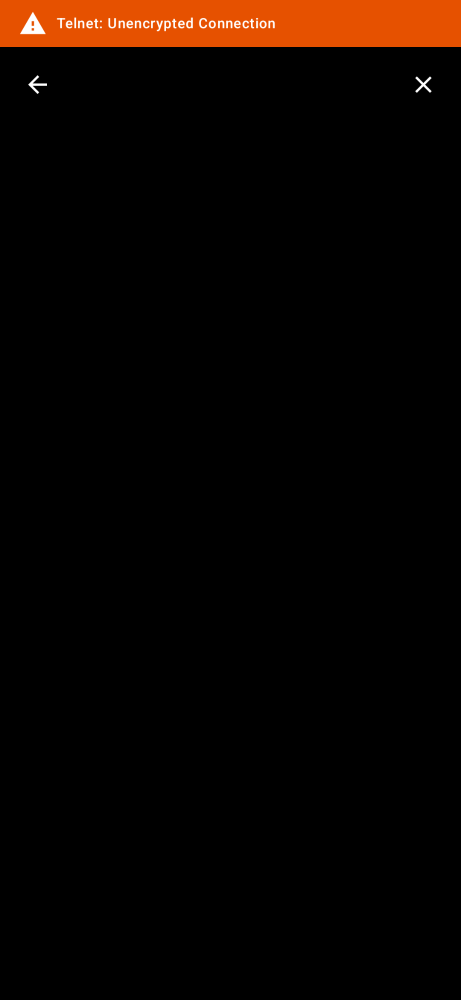
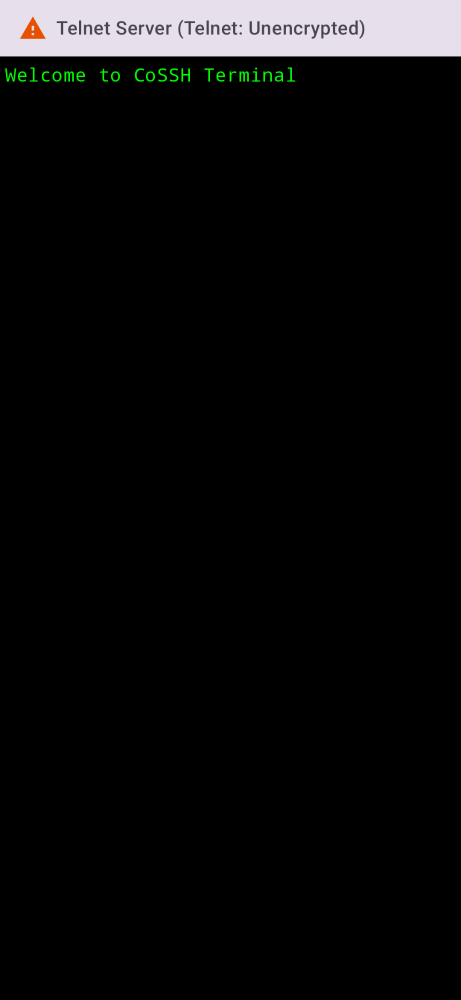
fix(ui,data): implement persistent Telnet header and test legacy payload (SSH-122)
- Add TopAppBar equivalent warning header for Telnet active sessions in TerminalScreen
- Remove transient warning from TerminalOverlayButtons
- Add Paparazzi snapshot test for the new Telnet header warning
- Update ConnectionProfileTest to verify legacy JSON deserialization defaults to SSH

Changed region(s): [[0.0, 0.0, 1.0, 0.093]]

diff --git a/app/src/test/kotlin/com/adamoutler/ssh/ui/components/TerminalScreenResumeScreenshotTest.kt b/app/src/test/kotlin/com/adamoutler/ssh/ui/components/TerminalScreenResumeScreenshotTest.kt
@@ -77,4 +77,49 @@ class TerminalScreenResumeScreenshotTest {
             }
         }
     }
+
+    @Test
+    fun terminalShowsTelnetHeaderWarning() {
+        paparazzi.snapshot {
+            CoSSHTheme {
+                Surface(
+                    modifier = Modifier.fillMaxSize(),
+                    color = MaterialTheme.colorScheme.background
+                ) {
+                    TerminalScreenContent(
+                        profileId = "test",
+                        session = com.termux.terminal.TerminalSession(
+                            "/system/bin/sh", "/", arrayOf(), arrayOf(), 0, object : com.termux.terminal.TerminalSessionClient {
+                                override fun onTextChanged(session: com.termux.terminal.TerminalSession) {}
+                                override fun onTitleChanged(session: com.termux.terminal.TerminalSession) {}
+                                override fun onSessionFinished(session: com.termux.terminal.TerminalSession) {}
+                                override fun onCopyTextToClipboard(session: com.termux.terminal.TerminalSession, text: String) {}
+                                override fun onPasteTextFromClipboard(session: com.termux.terminal.TerminalSession) {}
+                                override fun onBell(session: com.termux.terminal.TerminalSession) {}
+                                override fun onColorsChanged(session: com.termux.terminal.TerminalSession) {}
+                                override fun onTerminalCursorStateChange(state: Boolean) {}
+                                override fun getTerminalCursorStyle(): Int = 0
+                                override fun logError(tag: String?, msg: String?) {}
+                                override fun logWarn(tag: String?, msg: String?) {}
+                                override fun logInfo(tag: String?, msg: String?) {}
+                                override fun logDebug(tag: String?, msg: String?) {}
+                                override fun logVerbose(tag: String?, msg: String?) {}
+                                override fun logStackTraceWithMessage(tag: String?, msg: String?, e: java.lang.Exception?) {}
+                                override fun logStackTrace(tag: String?, e: java.lang.Exception?) {}
+                            }
+                        ),
+                        activeSession = com.adamoutler.ssh.network.ActiveSessionState(profileId = "test"),
+                        currentFontSize = 14,
+                        sessionId = "123",
+                        isConnectionActive = true,
+                        errorMessage = null,
+                        onUpdateFontSize = {},
+                        onNavigateBack = {},
+                        onClearError = {},
+                        profile = com.adamoutler.ssh.data.ConnectionProfile("test", "Telnet Server", "host", 23, com.adamoutler.ssh.data.Protocol.TELNET, "user", com.adamoutler.ssh.data.AuthType.PASSWORD, 0)
+                    )
+                }
+            }
+        }
+    }
 }

diff --git a/app/src/main/kotlin/com/adamoutler/ssh/ui/components/TerminalScreen.kt b/app/src/main/kotlin/com/adamoutler/ssh/ui/components/TerminalScreen.kt
@@ -325,6 +325,30 @@ fun TerminalScreenContent(
         val currentFontSizeState = androidx.compose.runtime.rememberUpdatedState(currentFontSize)
         val onUpdateFontSizeState = androidx.compose.runtime.rememberUpdatedState(onUpdateFontSize)
 
+        if (profile?.protocol == com.adamoutler.ssh.data.Protocol.TELNET) {
+            androidx.compose.material3.Surface(
+                color = androidx.compose.material3.MaterialTheme.colorScheme.surfaceVariant,
+                modifier = Modifier.fillMaxWidth()
+            ) {
+                androidx.compose.foundation.layout.Row(
+                    modifier = Modifier.padding(horizontal = 16.dp, vertical = 12.dp),
+                    verticalAlignment = androidx.compose.ui.Alignment.CenterVertically
+                ) {
+                    androidx.compose.material3.Icon(
+                        imageVector = Icons.Default.Warning,
+                        contentDescription = "Insecure Protocol Warning",
+                        tint = Color(0xFFE65100)
+                    )
+                    Spacer(modifier = Modifier.width(8.dp))
+                    androidx.compose.material3.Text(
+                        text = "${profile.nickname} (Telnet: Unencrypted)",
+                        color = androidx.compose.material3.MaterialTheme.colorScheme.onSurfaceVariant,
+                        style = androidx.compose.material3.MaterialTheme.typography.titleMedium
+                    )
+                }
+            }
+        }
+
         Box(modifier = Modifier.weight(1f).fillMaxWidth()) {
             val isHeadlessTest = ConnectionStateRepository.isHeadlessTest
             if (isHeadlessTest) {

diff --git a/app/src/test/kotlin/com/adamoutler/ssh/data/ConnectionProfileTest.kt b/app/src/test/kotlin/com/adamoutler/ssh/data/ConnectionProfileTest.kt
@@ -36,4 +36,12 @@ class ConnectionProfileTest {
         // Assert the new protocol does not break existing data
         assertEquals(originalProfile.id, restoredProfile.id)
     }
+
+    @Test
+    fun testLegacyDeserializationDefaultsToSsh() {
+        val legacyJson = """{"id":"test-legacy","nickname":"Old Server","host":"10.0.0.1","port":22,"username":"admin","authType":"PASSWORD","keyReference":0}"""
+        val restoredProfile = Json { ignoreUnknownKeys = true }.decodeFromString<ConnectionProfile>(legacyJson)
+        assertEquals(Protocol.SSH, restoredProfile.protocol)
+        assertEquals("Old Server", restoredProfile.nickname)
+    }
 }
